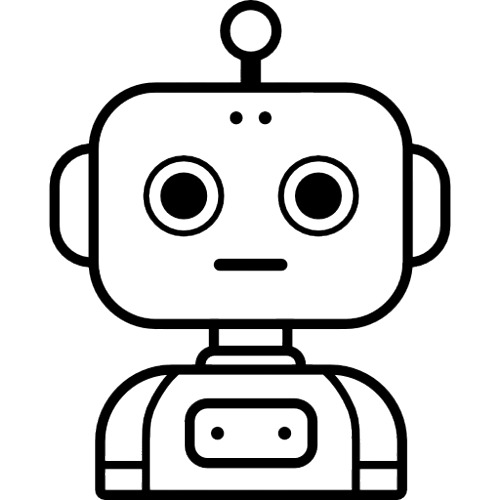
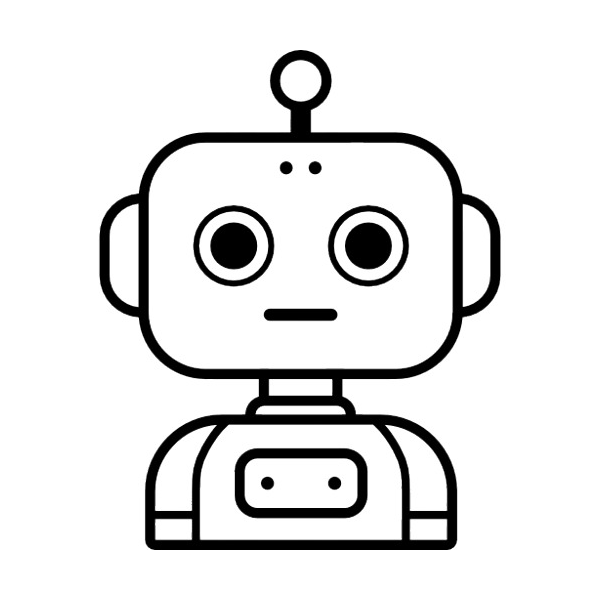
add padding

Changed region(s): [[0.09, 0.0, 0.9, 1.0], [0.54, 0.3, 0.72, 0.48], [0.42, 0.51, 0.6, 0.54]]

diff --git a/README.md b/README.md
@@ -1,5 +1,5 @@
 <div align="center">
-  <img src="fastlane/metadata/android/en-US/images/icon.png" width="128" alt="">
+  <img src="fastlane/metadata/android/en-US/images/icon.png" width="128" alt="App Icon">
   <h1>AI Hub</h1>
   <p><strong>All your AI assistants, beautifully together.</strong><br>Privacy-first, open-source, and completely customizable.</p>
 </div>
